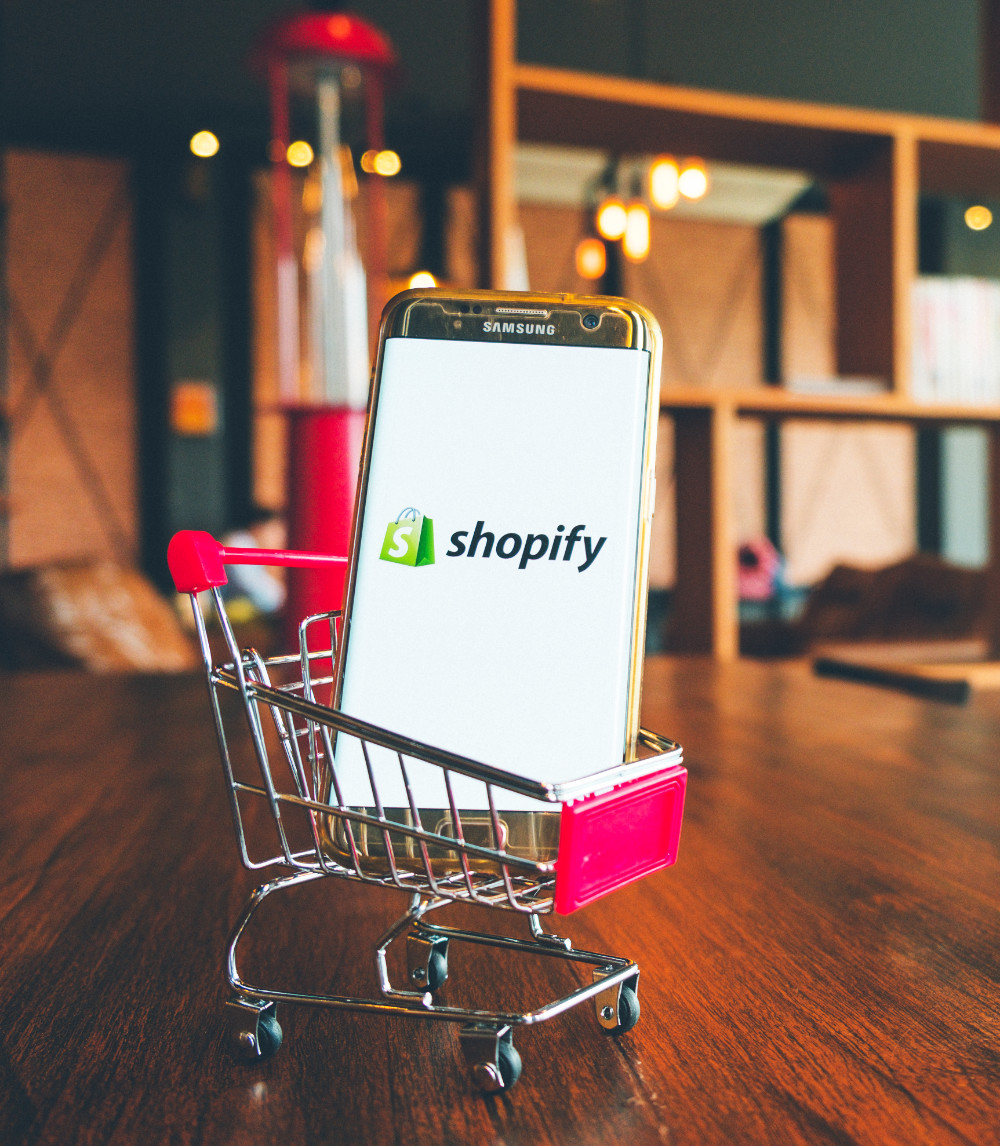
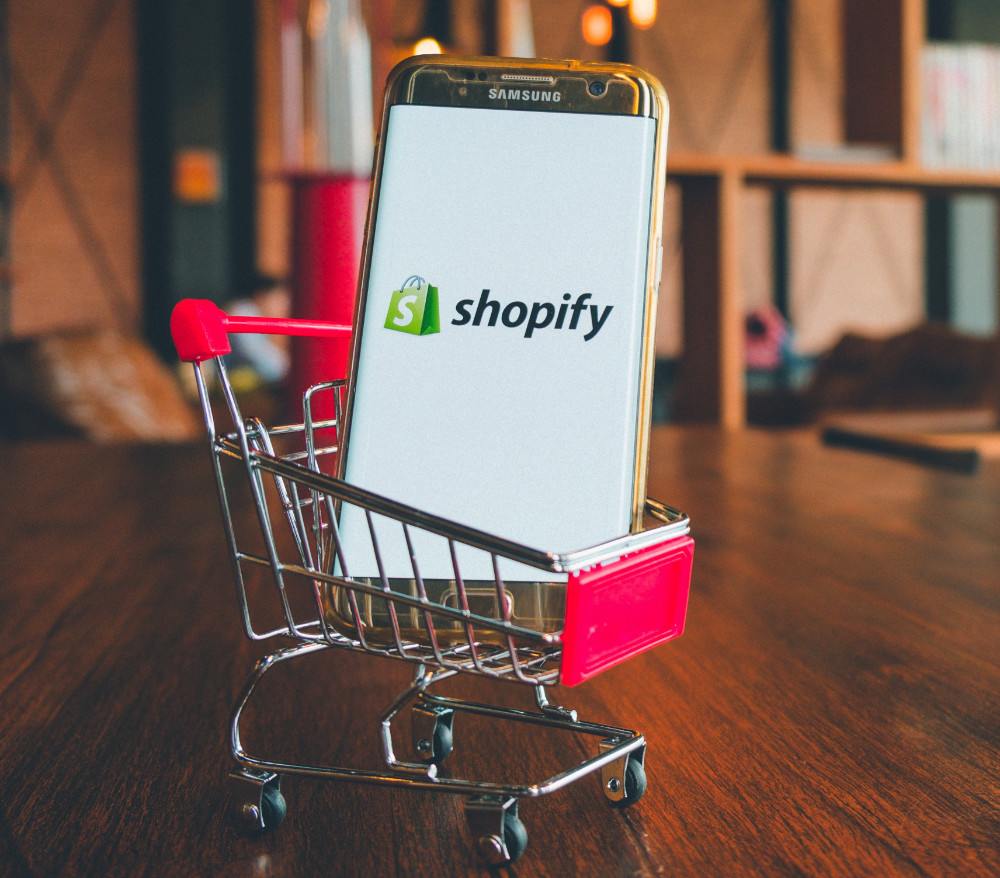
fix: improve crop on Shopify image

diff --git a/index.html b/index.html
@@ -91,7 +91,7 @@
         <span>i</span>
         <span>o</span>
       </h1>
-      <a id="scroll-cta" href="#services"  ><span class="desktop-only"></span></a>
+      <a id="scroll-cta" href="#services"><span class="desktop-only"></span></a>
     </header>
   </span>
   <main>
@@ -165,7 +165,7 @@
           <h3 class="service-title2" data-aos="fade-up">Shopify Development</h3>
           <h4 data-aos="fade-up">Setup - Migrations - Customization</h4>
         </div>
-        <img data-aos="zoom-in" src="../assets/images/shopify2.jpg" alt="Shopify Image" loading="eager">
+        <img data-aos="zoom-in" src="../assets/images/shopify.jpg" alt="Shopify Image" loading="eager">
         <p data-aos="fade-up">Lorem ipsum dolor sit amet, consectetur adipiscing elit, sed do eiusmod tempor
           incididunt ut labore et
           dolore magna
